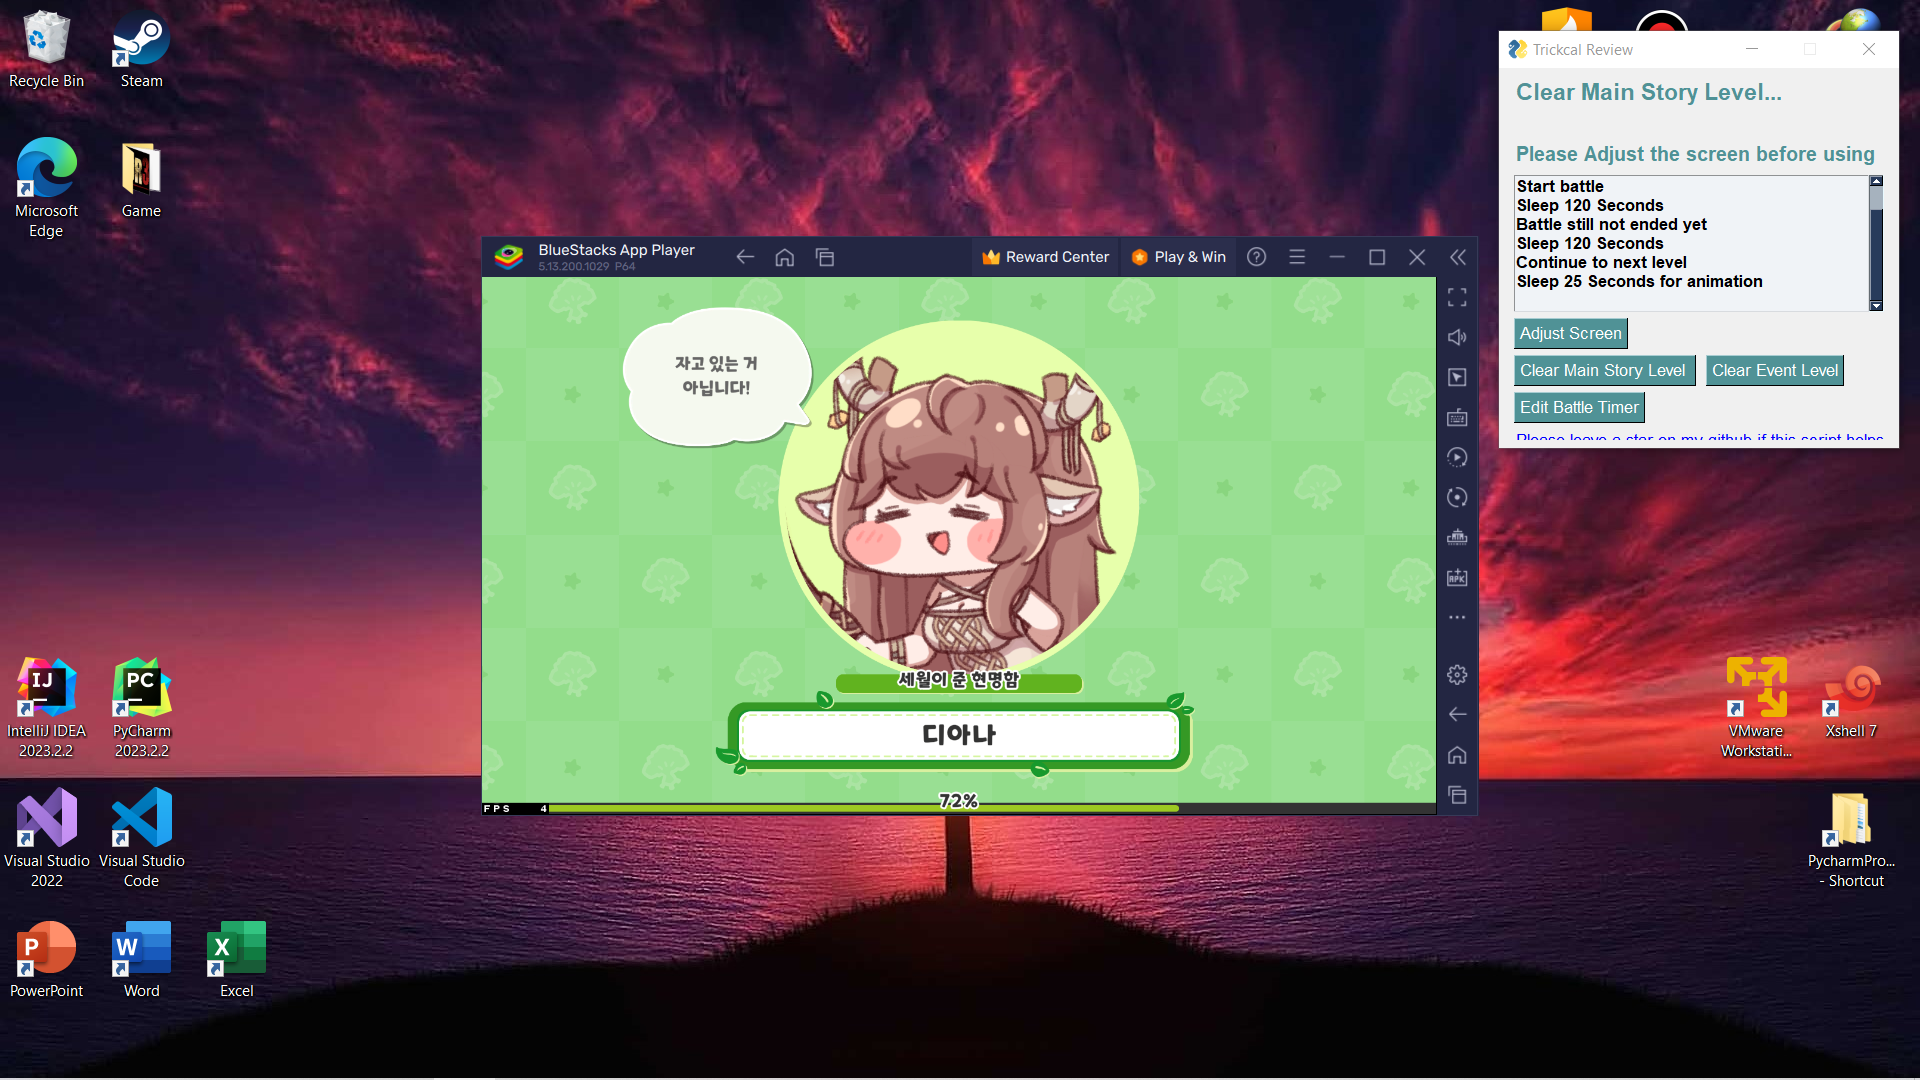
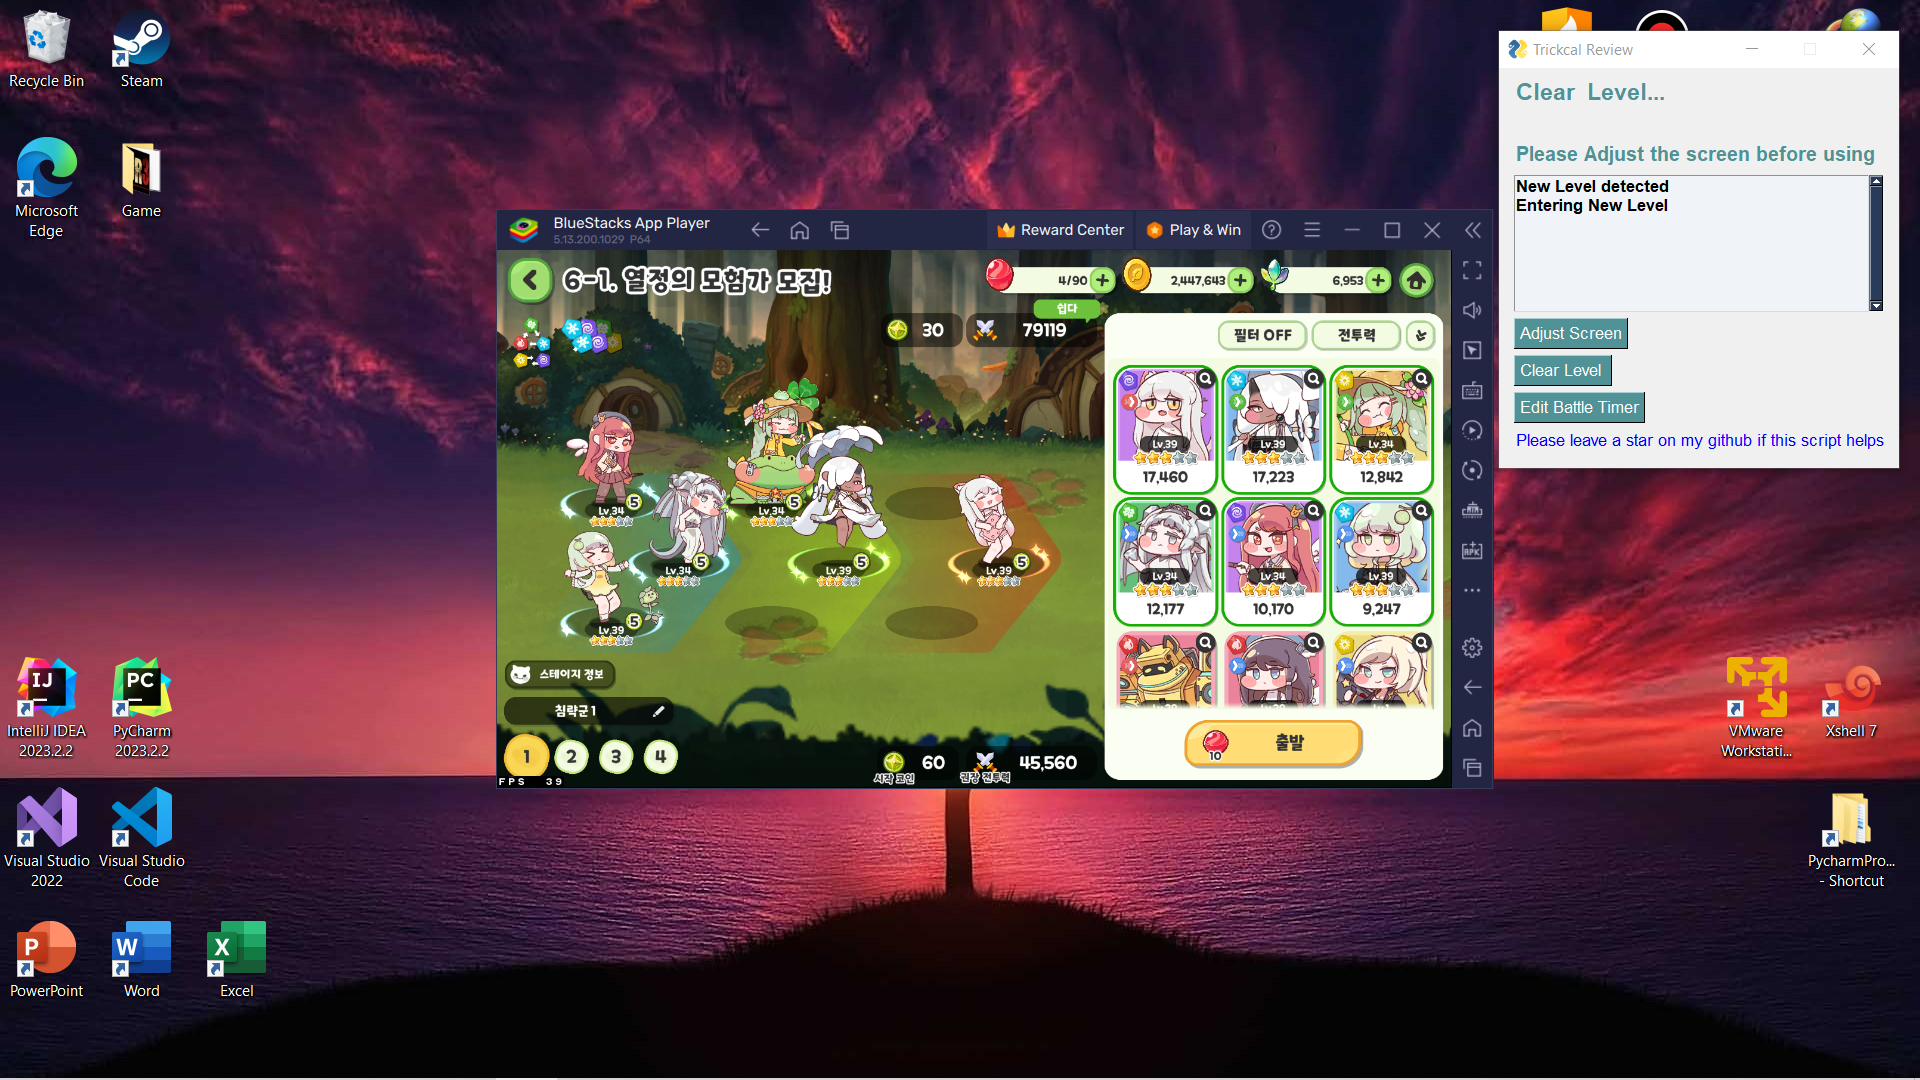
Initial commit

Changed region(s): [[0.25, 0.1528, 1.0, 0.7639], [0.8125, 0.3056, 0.9688, 0.3667], [0.8125, 0.0611, 0.9375, 0.0917]]

diff --git a/main.py b/main.py
@@ -6,7 +6,8 @@ import PySimpleGUI as sg
 import pygetwindow as gw
 
 battle_timer_seconds = 120
-skip_battle_process_check = False
+menu = sg.Window("Trickcal Review")
+
 
 def display_ui():
     # Set a Layout
@@ -18,8 +19,8 @@ def display_ui():
         [],
         [sg.Multiline('', key='_Multiline_', size=(48, 7), autoscroll=True)],
         [sg.Button("Adjust Screen", key="adjust_screen", button_color="#509296")],
-        [sg.Button("Clear Main Story Level ", key="main_story", button_color="#509296")] +
-        [sg.Button("Clear Event Level", key="event", button_color="#509296")],
+        [sg.Button("Clear Level ", key="main_story", button_color="#509296")],
+
         [sg.Button("Edit Battle Timer", key="battle_timer", button_color="#509296")],
         [sg.Text("Please leave a star on my github if this script helps you T^T,Click me to github", key="github",
                  enable_events=True, text_color='blue', background_color="#f0f0f0")]
@@ -35,10 +36,11 @@ def display_ui():
     menu_height = 30
 
     menu_popup_location = (menu_width, menu_height)  # Specify the desired coordinates of the menu
-    menu_size = (400, 380)  # Width, Height
+    menu_size = (400, 400)  # Width, Height
     menu_theme = "SystemDefaultForReal"  # Replace with the desired theme name
     sg.theme(menu_theme)
 
+    global menu
     menu = sg.Window("Trickcal Review", layout, location=menu_popup_location, keep_on_top=True, size=menu_size)
 
     # Infinite Loop
@@ -47,12 +49,8 @@ def display_ui():
         event, values = menu.read()
 
         if event == "main_story":
-            menu["row1"].update("Clear Main Story Level...\n")
-            clear_battle(menu,False)
-
-        if event == "event":
-            menu["row1"].update("Clear Event Level...\n")
-            clear_battle(menu,True)
+            menu["row1"].update("Clear  Level...\n")
+            clear_battle()
 
         if event == "adjust_screen" and screen_resolution_height == 1080:
             if screen_resolution_height != 1080:
@@ -62,14 +60,77 @@ def display_ui():
 
             menu["row1"].update("Adjust Screen...")
             menu.refresh()
-            adjust_screen(menu)
+
+            def adjust_screen():
+                def is_app_running():
+                    app_titles = ["BlueStacks", "MEmu", "Nox"]
+
+                    # Find the window with a matching title
+                    app_is_running = None
+                    # Test all title
+                    for title in app_titles:
+                        try:
+                            app_is_running = gw.getWindowsWithTitle(title)[0]
+                            break
+                        except IndexError:
+                            pass
+
+                    if app_is_running:
+                        return app_is_running
+                    else:
+                        return None
+
+                app_window = is_app_running()
+
+                if app_window is None:
+                    def app_not_found():
+                        global menu
+                        menu["row1"].update("Error :(", text_color="red", font=("Helvetica", 16, "bold"),
+                                            background_color="#f0f0f0")
+                        menu["row2"].update("Unable to detect Emulator", text_color="red",
+                                            font=("Helvetica", 12, "bold"),
+                                            background_color="#f0f0f0")
+                        utils.update_gui_msg("Supported Emulator :\nBlueStacks(Tested)\nMEmu\nNox\n\n\n", menu)
+                        menu.refresh()
+
+                    app_not_found()
+                    return
+
+                # Resize the window
+                app_window.resizeTo(998, 577)
+
+                # Get Screen Center
+                screen_width = ctypes.windll.user32.GetSystemMetrics(0)
+                screen_height = ctypes.windll.user32.GetSystemMetrics(1)
+
+                window_width = app_window.width
+                window_height = app_window.height
+
+                screen_center_x = (screen_width - window_width) // 2
+                screen_center_y = (screen_height - window_height) // 2
+
+                app_window.activate()
+
+                # Select app
+                time.sleep(1)
+                # Move the window to the center of the screen
+                app_window.moveTo(screen_center_x, screen_center_y)
+
+                global menu
+
+                menu["row1"].update("Screen Adjusted!!", text_color="#509296", font=("Helvetica", 16, "bold"),
+                                    background_color="#f0f0f0")
+                menu["row2"].update("yay d >w< b yay", text_color="#509296", font=("Helvetica", 12, "bold"),
+                                    background_color="#f0f0f0")
+                menu.refresh()
+
+            adjust_screen()
             pass
 
         if event == "battle_timer":
             global battle_timer_seconds
 
             battle_timer_seconds = sg.popup_get_text("Enter Battle Timer in Seconds: (Default is 120 seconds)")
-
 
         if event == "github":
             webbrowser.open("https://github.com/chong12007/Trickcal_Review_Script")
@@ -79,108 +140,42 @@ def display_ui():
             break
 
 
-def adjust_screen(menu):
-    def is_app_running():
-        app_titles = ["BlueStacks", "MEmu", "Nox"]
-
-        # Find the window with a matching title
-        app_is_running = None
-        # Test all title
-        for title in app_titles:
-            try:
-                app_is_running = gw.getWindowsWithTitle(title)[0]
-                break
-            except IndexError:
-                pass
-
-        if app_is_running:
-            return app_is_running
-        else:
-            return None
-
-    app_window = is_app_running()
-
-    if app_window is None:
-        def app_not_found(menu):
-            menu["row1"].update("Error :(", text_color="red", font=("Helvetica", 16, "bold"),
-                                background_color="#f0f0f0")
-            menu["row2"].update("Unable to detect Emulator", text_color="red", font=("Helvetica", 12, "bold"),
-                                background_color="#f0f0f0")
-            utils.update_gui_msg("Supported Emulator :\nBlueStacks(Tested)\nMEmu\nNox\n\n\n", menu)
-            menu.refresh()
-
-        app_not_found(menu)
-        return
-
-    # Resize the window
-    app_window.resizeTo(998, 577)
-
-    # Get Screen Center
-    screen_width = ctypes.windll.user32.GetSystemMetrics(0)
-    screen_height = ctypes.windll.user32.GetSystemMetrics(1)
-
-    window_width = app_window.width
-    window_height = app_window.height
-
-    screen_center_x = (screen_width - window_width) // 2
-    screen_center_y = (screen_height - window_height) // 2
-
-    app_window.activate()
-
-    # Select app
-    time.sleep(1)
-    # Move the window to the center of the screen
-    app_window.moveTo(screen_center_x, screen_center_y)
-
-    menu["row1"].update("Screen Adjusted!!", text_color="#509296", font=("Helvetica", 16, "bold"),
-                        background_color="#f0f0f0")
-    menu["row2"].update("yay d >w< b yay", text_color="#509296", font=("Helvetica", 12, "bold"),
-                        background_color="#f0f0f0")
-    menu.refresh()
-
-
-def start_battle_process(menu):
-    max_error_count = 3
-    error_count = 0
-
-    while error_count < max_error_count:
-        try:
-            coordinate = utils.get_icon_coordinate("img/new_level.png")
-            if coordinate is None:
-                raise Exception
-
-            utils.click(coordinate, "New Level detected\n", menu)
-            coordinate = utils.get_icon_coordinate("img/battle_entry.png")
-            utils.click(coordinate, "Entering battle\n", menu)
-            coordinate = utils.get_icon_coordinate("img/start_battle.png")
-            utils.click(coordinate, "Start battle\n", menu)
-            error_count = 0
-            return True
-
-        except Exception as e:  # Increment the error count
-            error_count += 1
-
-            if error_count == max_error_count:
-                utils.update_gui_msg("Error Occur on Starting battle\n", menu)
-                return False
-
-
-def clear_battle(menu,is_event):
-    global skip_battle_process_check
-
+def clear_battle():
+    global menu
     while True:
-        # For clearing battle, start battle without level selecting
-        if skip_battle_process_check:
-            coordinate = utils.get_icon_coordinate("img/start_battle.png")
-            utils.click(coordinate, "Start battle\n", menu)
-            is_battle_start = True
-        else:
-            is_battle_start = start_battle_process(menu)
+        def start_battle_process():
+            global menu
+            max_error_count = 3
+            error_count = 0
 
-        if is_battle_start and is_event:
-            pass
+            while error_count < max_error_count:
+                try:
+                    coordinate = utils.get_icon_coordinate("img/new_level.png")
+                    if coordinate is None:
+                        raise Exception
 
-        elif is_battle_start is False:
+                    utils.click(coordinate, "New Level detected\n", menu)
+                    coordinate = utils.get_icon_coordinate("img/battle_entry.png")
+                    utils.click(coordinate, "Entering New Level\n", menu)
+                    coordinate = utils.get_icon_coordinate("img/start_battle.png")
+                    utils.click(coordinate, "Start battle\n", menu)
+                    error_count = 0
+                    return True
+
+                except Exception:  # Increment the error count
+                    error_count += 1
+                    coordinate = utils.get_icon_coordinate("img/start_battle.png")
+
+                    if coordinate is not None:
+                        utils.click(coordinate, "Start battle\n", menu)
+                        return True
+
+                    if error_count == max_error_count:
+                        return False
+
+        is_battle_start = start_battle_process()
+
+        if is_battle_start is False:
             utils.update_gui_msg("Error Occur on Finding New Level\n", menu)
             utils.update_gui_msg("Please Select Task again...\n", menu)
             return
@@ -202,15 +197,13 @@ def clear_battle(menu,is_event):
                 utils.click(coordinate, "Continue to next level\n", menu)
                 utils.click(coordinate, "Sleep 25 Seconds for animation\n", menu)
                 time.sleep(25)
-                if is_event is False :
-                    utils.click(coordinate, "", menu)
-                else:
-                    skip_battle_process_check = True
+
+                coordinate = (coordinate[0] - 300, coordinate[1])
+                utils.click(coordinate, "", menu)
+                time.sleep(2)
 
 
-
-
-        except Exception as e:
+        except Exception:
             pass
 
 
